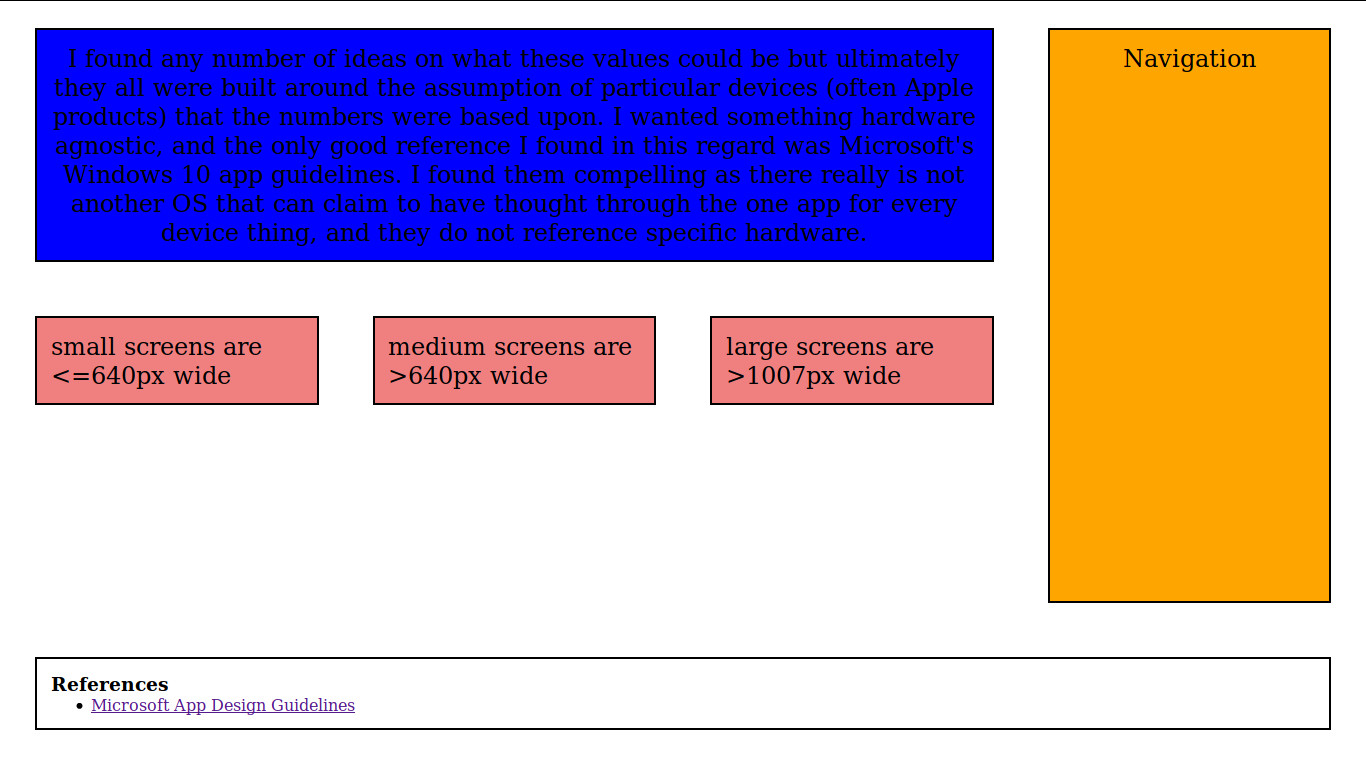
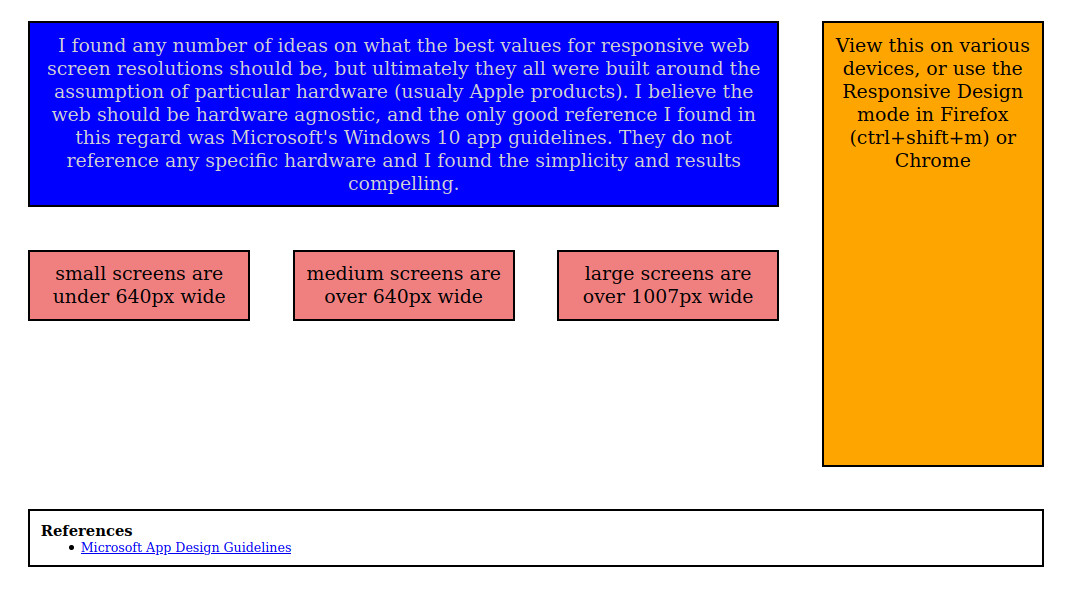
small fixes to improve readability

diff --git a/samplePages/responsive-web.html b/samplePages/responsive-web.html
@@ -5,33 +5,33 @@
         <link rel="stylesheet" href="css/responsive-web.css">
         <meta name="author" content="Evan Sklarski">
         <meta name="viewport" content="width=device-width">
-        <title>Lab 4 - Evan Sklarski</title>
+        <title>Responsive Web Philosophy</title>
     </head>
     <body>
         <div class="col-d-1 col-t-1">
         <!-- Header -->
-            <p>I found any number of ideas on what these values could be but ultimately they all were built around the assumption of particular devices (often Apple products) that the numbers were based upon. I wanted something hardware agnostic, and the only good reference I found in this regard was Microsoft's Windows 10 app guidelines. I found them compelling as there really is not another OS that can claim to have thought through the one app for every device thing, and they do not reference specific hardware.</p>
+            <p>I found any number of ideas on what the best values for responsive web screen resolutions should be, but ultimately they all were built around the assumption of particular hardware (usualy Apple products). I believe the web should be hardware agnostic, and the only good reference I found in this regard was Microsoft's Windows 10 app guidelines. They do not reference any specific hardware and I found the simplicity and results compelling.</p>
             <p></p>
         </div>
 
         <div class="col-d-2 col-t-2">
         <!-- Navigation -->
-            <p>Resize Me!</p>
+            <p>View this on various devices, or use the Responsive Design mode in Firefox (ctrl+shift+m) or Chrome</p>
         </div>
 
         <div class="col-d-3 col-t-3">
         <!-- small screen <= 640px -->
-            <p>small screens are <=640px wide</p>
+            <p>small screens are under 640px wide</p>
         </div>
 
         <div class="col-d-4 col-t-4">
         <!-- medium screen > 640px -->
-            <p>medium screens are >640px wide</p>
+            <p>medium screens are over 640px wide</p>
         </div>
 
         <div class="col-d-5 col-t-5">
         <!-- large screen > 1007px -->
-            <p>large screens are >1007px wide</p>
+            <p>large screens are over 1007px wide</p>
         </div>
 
         <div class="references">

diff --git a/samplePages/css/responsive-web.css b/samplePages/css/responsive-web.css
@@ -13,16 +13,18 @@ div {
     
     box-sizing: border-box;
     margin: 2%;
+    text-align: center;
 }
 
 .references {
     width: 96%;
+    text-align: left;
 }
 
 [class*="-1"] {
     font-size: 10em;
+    color: lightgrey;
     background-color: blue;
-    text-align: center;
 }
 
 [class*="-2"] {
